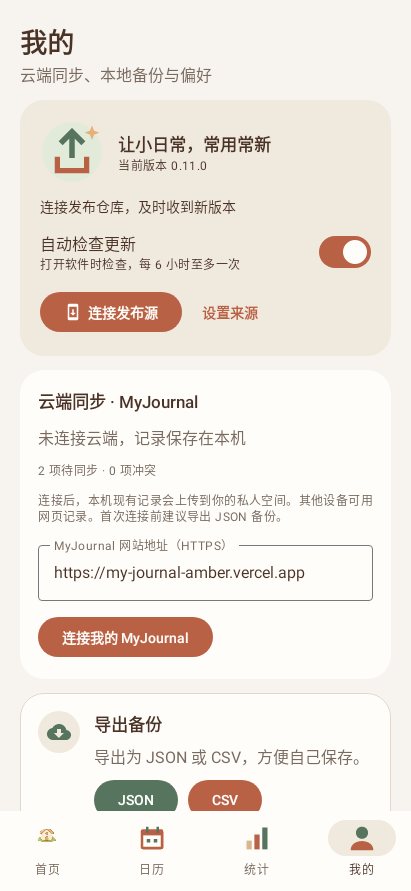
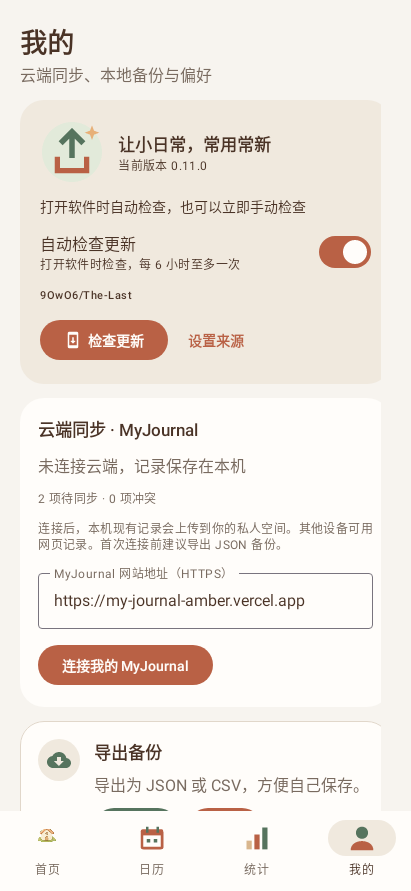
feat: connect app updates to official public release repository

Changed region(s): [[0.0584, 0.303, 0.9343, 0.9091], [0.0876, 0.2121, 0.7591, 0.2424], [0.7299, 0.5455, 0.9051, 0.6061]]

diff --git a/app/src/main/java/com/thelast/app/data/update/AppUpdateManager.kt b/app/src/main/java/com/thelast/app/data/update/AppUpdateManager.kt
@@ -16,6 +16,8 @@ import kotlinx.coroutines.*
 import kotlinx.coroutines.flow.MutableStateFlow
 import kotlinx.coroutines.flow.asStateFlow
 
+const val DEFAULT_UPDATE_REPOSITORY = "9OwO6/The-Last"
+
 data class UpdateState(
     val repository: String = "", val automatic: Boolean = true,
     val busy: Boolean = false, val message: String = "连接发布仓库，及时收到新版本",
@@ -28,7 +30,11 @@ class AppUpdateManager(
 ) {
     private val prefs = context.getSharedPreferences("app_updates", Context.MODE_PRIVATE)
     private val scope = CoroutineScope(SupervisorJob() + Dispatchers.Main)
-    private val mutable = MutableStateFlow(UpdateState(prefs.getString("repository", "") ?: "", prefs.getBoolean("automatic", true)))
+    private val mutable = MutableStateFlow(UpdateState(
+        repository = prefs.getString("repository", DEFAULT_UPDATE_REPOSITORY).orEmpty().ifBlank { DEFAULT_UPDATE_REPOSITORY },
+        automatic = prefs.getBoolean("automatic", true),
+        message = "打开软件时自动检查，也可以立即手动检查",
+    ))
     val state = mutable.asStateFlow()
     private var lastAttempt = 0L
     private val apk get() = File(context.cacheDir, "updates/thelast.apk")

diff --git a/app/src/test/java/com/thelast/app/UiSmokeTest.kt b/app/src/test/java/com/thelast/app/UiSmokeTest.kt
@@ -28,7 +28,7 @@ class UiSmokeTest {
         compose.onNodeWithText("让小日常，常用常新").assertIsDisplayed()
         capture("profile")
         compose.onNodeWithText("设置来源").performClick()
-        compose.onNodeWithText("owner/repository").performTextInput("invalid")
+        compose.onNodeWithText("owner/repository").performTextReplacement("invalid")
         compose.onNodeWithText("保存并检查").performScrollTo().performClick()
         compose.onNodeWithText("请输入 GitHub 仓库地址或 owner/repository").assertExists()
         compose.onNodeWithText("取消").performScrollTo().performClick()

diff --git a/app/src/test/java/com/thelast/app/AppUpdateManagerTest.kt b/app/src/test/java/com/thelast/app/AppUpdateManagerTest.kt
@@ -82,7 +82,7 @@ class AppUpdateManagerTest {
         prepare()
         val manager = AppUpdateManager(context) { response(it, 403, "") }
         assertNotNull(manager.configure("https://evil.example/repo"))
-        assertEquals("", manager.state.value.repository)
+        assertEquals("9OwO6/The-Last", manager.state.value.repository)
         manager.configure("owner/repo")
         await(manager)
         assertTrue(manager.state.value.message.contains("过于频繁"))

diff --git a/README.md b/README.md
@@ -1,5 +1,7 @@
 # The Last · 随处记录
 
+[下载最新版](https://github.com/9OwO6/The-Last/releases/latest) · [更新与发布说明](docs/updates.md)
+
 本地优先的 Android 事件记录器。可以一键记录、补记、编辑历史、查看频率、导出 JSON/CSV，并支持 MyJournal 私人云同步和网页记录入口。
 
 0.11.0 优化暖纸色界面、首页生活插画与事项图标，新增「我的 → 软件更新」：启动/返回前台自动检查正式 GitHub Release，发现新版在首页提醒；支持更新说明、下载进度、SHA-256 与签名校验，以及系统确认安装。完整发布与验收约定见 [更新说明](docs/updates.md)。

diff --git a/docs/updates.md b/docs/updates.md
@@ -2,6 +2,8 @@
 
 软件在启动或返回前台时检查公开 GitHub Release，自动检查间隔至少 6 小时；「我的」可随时手动检查、关闭自动检查或修改来源。软件完全退出时不后台轮询，提醒显示在软件首页及更新中心。
 
+默认官方发布源为 `9OwO6/The-Last`，无需用户手动配置。首次从历史版本升级到 0.11.0 时需要手动覆盖安装一次，之后可通过软件内更新中心获取新版。
+
 发布约定：
 
 1. 修改 `app/build.gradle.kts` 的 `versionName` 和递增的 `versionCode`。
